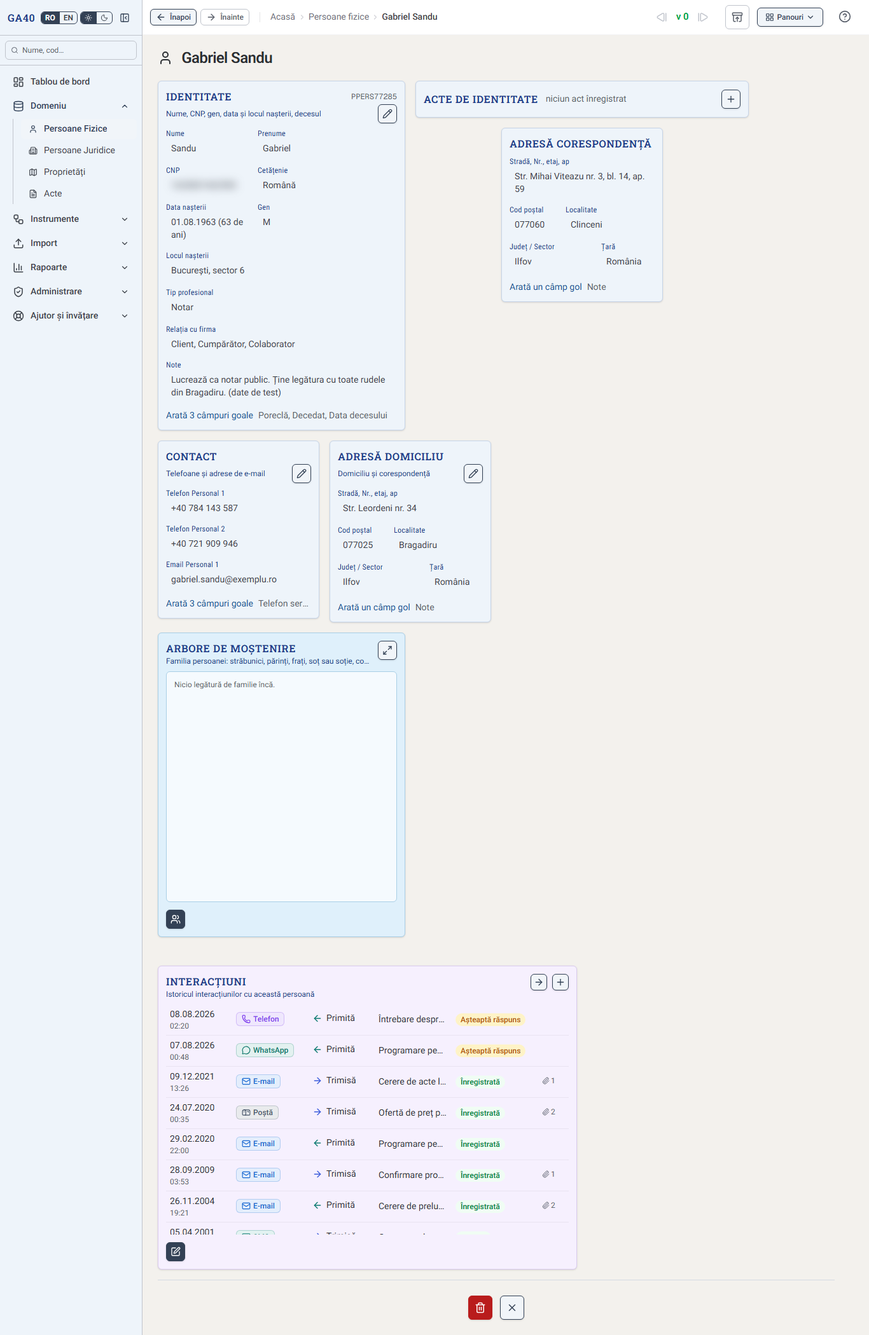
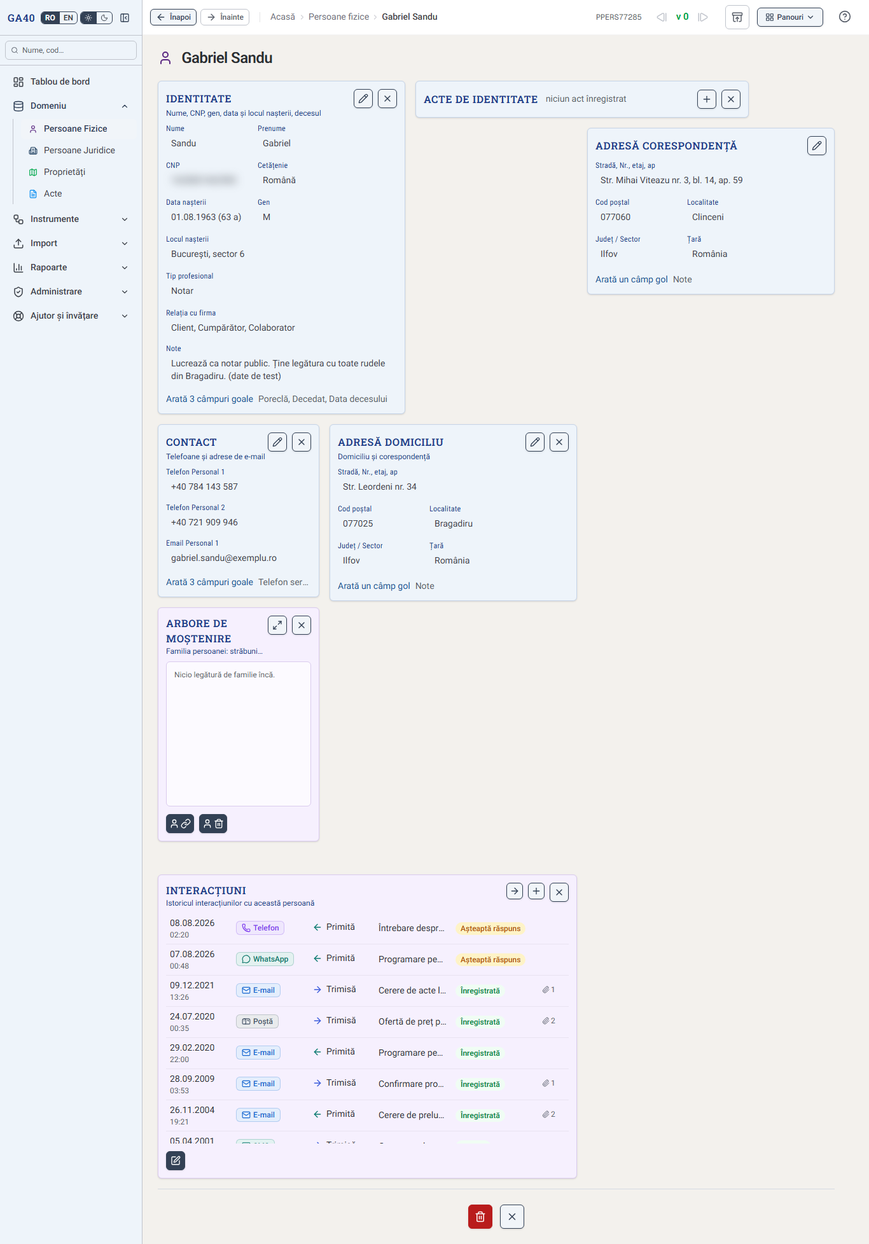
docs(manual): chapters 3 and 4 after 41.13–41.85, with their figures re-shot (41.93)
Both languages:
- chapter 3: the system ID in the bar (41.22); the two address tiles and their
  pairs, each address edited on its own, „Țară" from „Țara adresei" (41.34,
  41.35, 41.51); the age after the date of birth at rest, „(41 a)" (41.23,
  41.66); „Creează persoane din CI" disabled while the act has a holder (41.33);
  „Pe act: …" under „Cetățenie" (41.52); the tree tile as wide as its family,
  opened centred on the person, its two buttons drawn as „Legături"'s (41.71,
  41.79, 41.80);
- chapter 4: the system ID in the bar (41.22); „Tip" under „Poreclă" (41.24); the
  two address tiles (41.34, 41.51); a notary office as issuer is a „Notar" link
  (41.53).
Fixed in passing: „Cetățenie" stands beside „CNP", not „Locul nașterii" (since
41.04); the company preview's fields.
Quizzes corrected in place: „Adaugă sau scoate" is „Adaugă o rudă" / „Scoate o
rudă" (41.72) in persons-link-relatives, -id-card-from-the-archive,
-person-from-id-card, -read-inheritance-tree; the whole tree over the screen
(41.87); persons-add-natural-person-by-hand b5 (the system ID).
Figures re-shot from the dev seed, both languages, 0 maps: companies-record,
persons-identity-documents, persons-interactions-moved, persons-new,
persons-tree (series, number and CNP blurred).

Claude-Session: https://claude.ai/code/session_011Fi7mpRoEhCFzhM2R3W5NG

diff --git a/src/lib/manual/content/ro-RO/03-persons.ts b/src/lib/manual/content/ro-RO/03-persons.ts
@@ -31,7 +31,7 @@ Câteva semne de pe rânduri:
 
 - „Nou!” stă lângă o persoană adăugată sau schimbată de curând.
 - „†” după nume înseamnă că persoana a murit; dacă treceți cu mouse-ul peste el, scrie „Decedat” (secțiunea [[persons-identity]]).
-- ID-ul de sistem al persoanei nu apare în listă; îl vedeți pe ecranul ei, în colțul fișei „Identitate”.
+- ID-ul de sistem al persoanei nu apare în listă; îl vedeți pe ecranul ei, în bara de sus, la stânga versiunii (secțiunea [[start-breadcrumb]]).
 
 Fiecare rând are patru butoane:
 
@@ -72,9 +72,13 @@ Pe lista persoanelor fizice, apăsați „Adaugă persoană” — butonul din d
 | „Identitate” | Pe rânduri: „Nume” și „Prenume”; „Poreclă”, singură; „CNP” și „Cetățenie”; „Data nașterii”, „Vârstă” și „Gen”; „Decedat” și „Data decesului”; „Locul nașterii”, cât fișa de lată; „Tip profesional”; „Note”. |
 | „Acte de identitate” | Pe o persoană salvată: cărțile ei de identitate și pașapoartele, fiecare un act al ei (secțiunea [[persons-identity-documents]]). Pe „Persoană fizică nouă” nu apare: nu există încă persoana care să le dețină. |
 | „Contact” | Telefoanele și adresele de e-mail. |
-| „Adrese” | „Adresă domiciliu” și „Adresă corespondență”. |
+| „Adrese” | Două fișe, „Adresă domiciliu” și „Adresă corespondență”. Fiecare are „Stradă, Nr., etaj, ap”, apoi „Cod poștal” lângă „Localitate” și „Județ / Sector” lângă „Țară”, apoi „Note”. „Țară” se alege dintr-o listă, „Țara adresei” din „Date de referință” (secțiunea [[admin-reference-data]]). |
 
-„Gen” se scrie cu o literă: „M” sau „F” — în formular, pe ecranul persoanei, în coloana „Gen” a listei și în fereastra cărții de identitate. Ținut sub mouse, arată cuvântul întreg, „Masculin” sau „Feminin”. „Relația cu firma” ține tot rândul ei din „Identitate”, cu bifele una după alta. „Cetățenie” stă lângă „Locul nașterii”.
+„Gen” se scrie cu o literă: „M” sau „F” — în formular, pe ecranul persoanei, în coloana „Gen” a listei și în fereastra cărții de identitate. Ținut sub mouse, arată cuvântul întreg, „Masculin” sau „Feminin”. „Relația cu firma” ține tot rândul ei din „Identitate”, cu bifele una după alta. „Cetățenie” stă lângă „CNP”.
+
+Pe o persoană salvată, cât timp „Identitate” se citește, „Vârstă” nu are un câmp al ei: vârsta stă după data nașterii, între paranteze — de exemplu „(41 a)”. Câmpul „Vârstă” apare după „Editează”.
+
+Pe o persoană salvată, fiecare adresă se modifică singură: „Editează” pe „Adresă domiciliu” sau pe „Adresă corespondență”, apoi „Salvează” sau „Renunță” al fișei aceleia. În „Panouri”, amândouă au o singură bifă, „Adrese”. Când corespondența vine la domiciliu, „Adresă corespondență” stă pe un singur rând, „aceeași cu domiciliul”, iar „Adaugă” de pe rândul acela o deschide ca să-i scrieți adresa. Bifa „Adresa de corespondență aceeași cu domiciliul” stă jos în „Adresă corespondență” cât timp o modificați; pe „Persoană fizică nouă”, sub „Adresă domiciliu”.
 
 Bifele din „Panouri” arată sau ascund fișe, ca pe orice obiect (secțiunea [[start-tiles]]). O fișă ascunsă nu își pierde datele: ce ați scris în ea se salvează la fel.
 
@@ -120,10 +124,14 @@ La sfârșit vă întoarceți la lista persoanelor. Pe ecranul titularului, în 
 Când cartea de identitate este deja un act în arhivă, cu scanarea ei ca pagină, persoanele se creează de pe ecranul actului.
 
 1. Deschideți actul de identitate: o „Carte de Identitate (tip nou)”, o „Carte de Identitate (tip vechi)”, un „Pașaport” sau un „Pașaport CRDS”.
-2. Apăsați „Creează persoane din CI”, lângă „Modifică”. Aplicația citește cartea de pe prima pagină și deschide fereastra „Creează persoană din cartea de identitate”.
+2. Apăsați „Creează persoane din CI” — persoana cu un +, fără cuvinte —, lângă „Modifică”. Aplicația citește cartea de pe prima pagină și deschide fereastra „Creează persoană din cartea de identitate”.
 3. Verificați titularul și apăsați „Creează și leagă”. Dacă titularul există deja în arhivă, aplicația îl găsește după CNP și nu face o a doua persoană.
 4. În „Părinții titularului”, tatăl și mama citiți de pe carte sunt deja bifați, cu numele de familie al titularului, marcat ca presupus. Verificați-i, apoi apăsați „Creează și leagă” pentru fiecare.
 5. Sub buton, aplicația scrie ce a făcut: „Titularul a fost creat și legat de act.”, „Tatăl: creat(ă) și legat(ă)”, „Mama: creat(ă) și legat(ă)”.
+
+„Creează persoane din CI” nu se poate apăsa cât timp actul are deja un titular — fie creat așa, fie adăugat din fișa „Acte de identitate” a persoanei: ținut sub mouse, butonul spune „Actul are deja un titular: …”, cu numele lui.
+
+În fereastră, sub „Cetățenie”, scrie și ce a tipărit actul: „Pe act: …”, de exemplu cu cetățenia Română / ROU. Persoana primește cetățenia aleasă din listă, iar actul păstrează textul tipărit.
 
 Titularul este legat de act ca „Titular act de identitate”, iar părinții sunt legați de titular ca „Tată” și „Mamă”. Ce a tipărit actul se scrie pe act, în fișa lui „Actul oficial”; pe persoană ajung numele, CNP-ul, genul, nașterea și cetățenia, iar o persoană care exista deja primește doar câmpurile pe care nu le avea completate. Dacă citirea nu găsește prenumele părinților, cele două rânduri apar goale și nebifate, cu nota „Cartea nu tipărește prenumele părinților, sau citirea nu le-a găsit…”: le puteți scrie voi.
 
@@ -176,7 +184,7 @@ Un CNP greșit se îndreaptă așa: ștergeți persoana și adăugați-o din nou
 2. Scrieți „Data decesului”, dacă o știți.
 3. Apăsați „Salvează”, sub câmpurile fișei.
 
-După deces, „Vârstă” nu mai crește: arată vârsta la moarte, urmată de „†” — de exemplu „76 †”. O persoană bifată „Decedat”, dar fără dată, are „Vârstă” „—”. În liste, „†” apare după numele ei.
+După deces, „Vârstă” nu mai crește: arată vârsta la moarte, urmată de „†” — de exemplu „76 †”; la citire, după data nașterii, stă tot vârsta la moarte, cu „†” după ea. O persoană bifată „Decedat”, dar fără dată, are „Vârstă” „—”. În liste, „†” apare după numele ei.
 
 Aplicația refuză o dată de deces care nu are sens și scrie sub câmp de ce:
 
@@ -204,13 +212,15 @@ O legătură se scoate din „Legături”: alegeți rândul și apăsați „De
 
 Fișa „Arbore de moștenire”, mov deschis, desenează familia persoanei: părinții și bunicii până la străbunici, copiii până la strănepoți, frații și soțul sau soția (Figura [[fig-persons-tree]]). Dacă nu o vedeți, bifați „Arbore de moștenire” în „Panouri”.
 
+Fișa este cât familia: cu persoana singură sau cu o singură rudă are 2 unități, cu mai multe rude 3 (secțiunea [[start-tiles]]). Desenul se deschide centrat pe persoană, chiar dacă o parte din arbore rămâne atunci în afara fișei. O lățime trasă de mână se păstrează.
+
 „Deschide arborele întreg” deschide arborele întreg chiar peste ecranul persoanei. Fișa crește până umple fereastra, iar persoana pleacă de unde stă în fișă spre mijloc, la aceeași mărime; apoi arborele se apropie până se citesc datele și se deschide fișa persoanei. „Restrânge”, Esc, un clic în afara arborelui sau butonul înapoi al browserului îl strâng în fișă pe același drum. Dacă între timp l-ați mutat, l-ați mărit sau ați căutat altă persoană, întâi se întoarce, pe un arc, acolo unde se terminase deschiderea. Cât durează fiecare parte se alege în „Setări”, la „Praguri de timp” (secțiunea [[admin-settings-thresholds]]) — aceleași valori ca la „Hartă extinsă”.
 
 ![3.3 Fișa „Arbore de moștenire” a unei persoane](persons-tree.png){#fig-persons-tree}
 
 În arbore intră doar legăturile cu un rol de rudenie — rolurile marcate „Rudenie” în „Roluri Persoane”. O persoană fără astfel de legături arată „Nicio legătură de familie încă.”.
 
-Sub desen stau două butoane: „Adaugă o rudă” (o persoană cu o za de lanț) deschide jumătatea în care legați o rudă nouă, iar „Scoate o rudă” (o persoană cu un coș) pe cea cu legăturile de familie ale persoanei; fiecare se restrânge din butonul ei. Când ajungeți la persoană din „Rapoarte” → „Arbori de moștenire”, cu un clic pe numele ei (secțiunea [[reports-inheritance]]), „Adaugă o rudă” este deja deschisă.
+Sub desen stau două butoane, desenate ca „Asociază persoană” din „Legături”: „Adaugă o rudă” — persoana, apoi zaua de lanț — deschide jumătatea „O rudă nouă a lui …”, în care legați o rudă nouă, iar „Scoate o rudă” — persoana, apoi un coș — pe cea cu legăturile de familie ale persoanei. Pot fi deschise amândouă; fiecare se restrânge din butonul ei sau din săgeata ei. Când ajungeți la persoană din „Rapoarte” → „Arbori de moștenire”, cu un clic pe numele ei (secțiunea [[reports-inheritance]]), „Adaugă o rudă” este deja deschisă.
 
 - „Legăturile de familie ale persoanei” arată rudele ei, fiecare cu rolul.
 - Ca să adăugați o rudă: la „Ruda”, scrieți numele și alegeți persoana; la „Ce este pentru …”, alegeți rudenia; apăsați „Adaugă legătura”. Ruda apare în desen.

diff --git a/src/lib/manual/content/en-GB/03-persons.ts b/src/lib/manual/content/en-GB/03-persons.ts
@@ -31,7 +31,7 @@ A few marks on the rows:
 
 - „New!” stands beside a person added or changed recently.
 - „†” after the name means the person has died; if you move the mouse over it, it reads „Deceased” (section [[persons-identity]]).
-- The person's system ID does not appear in the list; you see it on their screen, in the corner of the „Identity” tile.
+- The person's system ID does not appear in the list; you see it on their screen, in the top bar, left of the version (section [[start-breadcrumb]]).
 
 Each row has four buttons:
 
@@ -72,9 +72,13 @@ On the list of natural persons, press „Add new Person” — the button on the
 | „Identity” | In rows: „Last Name” and „First Name”; „Nickname”, alone; „CNP” and „Citizenship”; „Date of Birth”, „Age” and „Gender”; „Deceased” and „Date of death”; „Place of Birth”, as wide as the tile; „Professional type”; „Notes”. |
 | „Identity documents” | On a saved person: their identity cards and passports, each a document of its own (section [[persons-identity-documents]]). It does not appear on „New Natural Person”: there is no person yet to hold them. |
 | „Contact” | The telephone numbers and e-mail addresses. |
-| „Addresses” | „Home Address” and „Correspondence Address”. |
+| „Addresses” | Two tiles, „Home Address” and „Correspondence Address”. Each has „Street, No., Floor, Apt”, then „Postal Code” beside „Locality” and „County / Sector” beside „Country”, then „Notes”. „Country” is chosen from a list, „Address country” in „Reference Data” (section [[admin-reference-data]]). |
 
-„Gender” is written as one letter: „M” or „F” — on the form, on the person's screen, in the list's „Gender” column and in the ID card's window. Under the mouse it shows the whole word, „Male” or „Female”. „Relationship to the business” takes the whole of its row in „Identity”, its ticks one after another. „Citizenship” sits beside „Place of Birth”.
+„Gender” is written as one letter: „M” or „F” — on the form, on the person's screen, in the list's „Gender” column and in the ID card's window. Under the mouse it shows the whole word, „Male” or „Female”. „Relationship to the business” takes the whole of its row in „Identity”, its ticks one after another. „Citizenship” sits beside „CNP”.
+
+On a saved person, while „Identity” is being read, „Age” has no field of its own: the age stands after the date of birth, in brackets — for instance „(41 y)”. The „Age” field appears after „Edit”.
+
+On a saved person, each address is edited on its own: „Edit” on „Home Address” or on „Correspondence Address”, then that tile's „Save” or „Cancel”. In „Panels”, the two have a single tick, „Addresses”. When the post goes to the home address, „Correspondence Address” is a single line, „same as home address”, and „Add” on that line opens it so you can type its address. The tick „Correspondence address same as home address” stands at the foot of „Correspondence Address” while you edit it; on „New Natural Person”, under „Home Address”.
 
 The ticks in „Panels” show or hide tiles, as on any object (section [[start-tiles]]). A hidden tile does not lose its data: what you typed in it is saved all the same.
 
@@ -120,10 +124,14 @@ At the end you return to the list of persons. On the holder's screen, in „Link
 When the identity card is already a document in the archive, with its scan as a page, the persons are created from the document's screen.
 
 1. Open the identity document: a „Carte de Identitate (tip nou)”, a „Carte de Identitate (tip vechi)”, a „Pașaport” or a „Pașaport CRDS”.
-2. Press „Create people from the ID card”, beside „Modify”. The application reads the card from the first page and opens the window „Create person from ID card”.
+2. Press „Create people from the ID card” — a person with a +, no words —, beside „Modify”. The application reads the card from the first page and opens the window „Create person from ID card”.
 3. Check the holder and press „Create and link”. If the holder is already in the archive, the application finds them by CNP and does not make a second person.
 4. In „The holder's parents”, the father and mother read from the card are already ticked, with the holder's surname, marked as assumed. Check them, then press „Create and link” for each.
 5. Under the button, the application writes what it did: „The holder was created and linked to the document.”, „Father: created and linked”, „Mother: created and linked”.
+
+„Create people from the ID card” cannot be pressed while the document already has a holder — whether created this way or added from the person's „Identity documents” tile: under the mouse the button says „This document already has a holder: …”, with their name.
+
+In the window, under „Citizenship”, it also shows what the document printed: „On the document: …”, followed by the citizenship exactly as the card prints it. The person receives the citizenship chosen from the list, and the document keeps the printed text.
 
 The holder is linked to the document as „Titular act de identitate” (identity-document holder), and the parents are linked to the holder as „Tată” and „Mamă”. What the document printed is written on the document, in its „Official document” tile; the names, the CNP, the gender, the birth and the citizenship go onto the person, and a person who already existed receives only the fields they had empty. If the reading does not find the parents' first names, the two rows appear empty and unticked, with the note „The card does not print the parents' first names, or the read did not find them…”: you can type them yourself.
 
@@ -176,7 +184,7 @@ In the „Identity” tile, under „Date of Birth”, is the „Deceased” tic
 2. Type „Date of death”, if you know it.
 3. Press „Save”.
 
-After the death, „Age” no longer grows: it shows the age at death, followed by „†” — for instance „76 †”. A person ticked „Deceased” but with no date has „Age” „—”. In the lists, „†” appears after their name.
+After the death, „Age” no longer grows: it shows the age at death, followed by „†” — for instance „76 †”; when the tile is read, the date of birth too is followed by the age at death, with „†” after it. A person ticked „Deceased” but with no date has „Age” „—”. In the lists, „†” appears after their name.
 
 The application refuses a date of death that makes no sense and writes under the field why:
 
@@ -204,13 +212,15 @@ A link is removed from „Links”: choose the row and press „Dissociate”.
 
 The „Inheritance tree” tile, light purple, draws the person's family: parents and grandparents up to great-grandparents, children down to great-grandchildren, siblings and the husband or wife (Figure [[fig-persons-tree]]). If you do not see it, tick „Inheritance tree” in „Panels”.
 
+The tile is as wide as the family: with the person alone or with a single relative it is 2 units wide, with more relatives 3 (section [[start-tiles]]). The drawing opens centred on the person, even if part of the tree is then outside the tile. A width dragged by hand is kept.
+
 „Open the whole tree” opens the whole tree right over the person's screen. The tile grows until it fills the window, and the person travels from where they stand on the tile to the middle, at the same size; then the tree comes closer until the details can be read, and the person's card opens. „Collapse”, Esc, a click outside the tree or the browser's back button take it back into the tile the same way. If you moved it, zoomed it or searched for another person meanwhile, it first returns, on an arc, to where the opening ended. How long each part lasts is set in „Settings”, under „Time thresholds” (section [[admin-settings-thresholds]]) — the same values as „Map — expanded”.
 
 ![3.3 A person's „Inheritance tree” tile](persons-tree.png){#fig-persons-tree}
 
 Only links with a kinship role go into the tree — the roles marked „Kinship” in „Person Roles”. A person with no such links shows „No family ties yet.”
 
-Under the drawing stand two buttons: „Add a relative” (a person with a chain link) opens the half where you tie in a new relative, and „Remove a relative” (a person with a bin) the one with the person's family ties; each collapses from its own button. When you reach the person from „Reporting” → „Inheritance trees”, with a click on their name (section [[reports-inheritance]]), „Add a relative” is already open.
+Under the drawing stand two buttons, drawn like „Associate person” in „Links”: „Add a relative” — the person, then the chain link — opens the half „A new relative of …”, where you tie in a new relative, and „Remove a relative” — the person, then a bin — the one with the person's family ties. Both can be open at once; each collapses from its own button or from its arrow. When you reach the person from „Reporting” → „Inheritance trees”, with a click on their name (section [[reports-inheritance]]), „Add a relative” is already open.
 
 - „The person's family ties” shows their relatives, each with the role.
 - To add a relative: under „Relative”, type the name and choose the person; under „What they are to …”, choose the kinship; press „Add the tie”. The relative appears in the drawing.

diff --git a/src/lib/manual/content/ro-RO/04-companies.ts b/src/lib/manual/content/ro-RO/04-companies.ts
@@ -26,7 +26,7 @@ Caseta de căutare din capul listei („caută după ID, Denumire, Poreclă, Nr.
 
 Butonul arată câte câmpuri ați ales, de exemplu „Câmpuri afișate 1/4”. Coloana CUI nu apare până nu o bifați, dar căutarea după CUI merge oricum. La „Contact” se vede prima persoană de contact a firmei; dacă primul loc e gol, se vede a doua (secțiunea [[companies-people-contact]]).
 
-Pe fiecare rând, denumirea firmei este un link care o deschide, iar lângă ea stau, estompate până treceți cu mouse-ul peste rând, „Previzualizare”, „Incursiune” și „Legături”. Previzualizarea unei firme arată denumirea ei, apoi porecla. „Incursiune” arată, alături de listă, fișa „Interacțiuni” a firmei, iar „Legături” arată, tot alături, cu cine este legată firma, fără să o deschideți.
+Pe fiecare rând, denumirea firmei este un link care o deschide, iar lângă ea stau, estompate până treceți cu mouse-ul peste rând, „Previzualizare”, „Incursiune” și „Legături”. Previzualizarea unei firme arată denumirea ei, apoi porecla și CUI-ul, apoi telefonul și e-mailul firmei. „Incursiune” arată, alături de listă, fișa „Interacțiuni” a firmei, iar „Legături” arată, tot alături, cu cine este legată firma, fără să o deschideți.
 
 O firmă adăugată de curând apare în capul listei, marcată „Nou!”.
 
@@ -73,7 +73,9 @@ Prima fișă ține datele firmei:
 - „Nr. înregistrare (CUI)” — codul unic de înregistrare.
 - „Nr. registru comerțului” — numărul de la Registrul Comerțului.
 
-ID-ul de sistem al firmei, care începe cu JPERS, stă în colțul din dreapta-sus al acestei fișe. Nu este un câmp și nu se scrie de mână.
+„Denumire” și „Poreclă” țin fiecare toată lățimea fișei; „Tip” stă singur pe rândul lui, sub „Poreclă”, iar CUI-ul și numărul de la Registrul Comerțului stau alături, dedesubt.
+
+ID-ul de sistem al firmei, care începe cu JPERS, nu stă în fișă, ci în bara de sus, la stânga versiunii (secțiunea [[start-breadcrumb]]). Nu este un câmp și nu se scrie de mână.
 
 Aplicația nu verifică forma CUI-ului: primește orice scrieți. Verificați-l deci pe act înainte să salvați. Odată salvat, sub CUI apare regula: „CUI-ul nu poate fi modificat odată setat — ștergeți și creați din nou pentru a-l schimba”. Un CUI greșit se îndreaptă, așadar, ștergând firma și creând-o din nou.
 
@@ -85,7 +87,9 @@ Un e-mail care nu are forma unei adrese nu se salvează: sub câmp apare „Adre
 
 ### 4.2.3 Adresele {#companies-add-addresses}
 
-Fișa „Adrese” ține „Adresă sediu social” și „Adresă corespondență”. Când firma primește corespondența la sediu, bifați „Aceeași cu adresa sediului social” și nu mai scrieți adresa a doua oară.
+Adresele sunt două fișe, „Adresă sediu social” și „Adresă corespondență”, cu câmpurile oricărei adrese (secțiunea [[persons-add-tiles]]); „Țară” se alege din lista „Țara adresei”. În „Panouri” au o singură bifă, „Adrese”. Pe o firmă salvată, fiecare se modifică singură, cu „Editează”, „Salvează” și „Renunță” ale ei.
+
+Când firma primește corespondența la sediu, bifați „Aceeași cu adresa sediului social” și nu mai scrieți adresa a doua oară. Bifa stă jos în „Adresă corespondență” cât timp o modificați; pe „Persoană juridică nouă”, sub „Adresă sediu social”. Cu bifa pusă, „Adresă corespondență” stă pe un singur rând, „aceeași cu sediul social”, iar „Adaugă” de pe el o deschide.
 
 ### 4.2.4 Modificarea și istoricul {#companies-add-edit}
 
@@ -138,6 +142,8 @@ Instituțiile care emit acte — un birou notarial, o instanță, o primărie, o
 La „Tip” stau după formele de firmă, cu „Altele” la urmă. Fiecare are cod fiscal în registrul ANAF, așa că „Completează din ANAF” le completează ca pe orice firmă (secțiunea [[companies-add-anaf]]).
 
 Emitentul unui act — câmpul din formularul actului a cărui etichetă se schimbă după tip — se alege dintre ele: lista lui ține persoanele juridice de un tip de autoritate publică, iar căutarea lui găsește orice persoană juridică (secțiunea [[documents-identification]]). Ce tipuri sunt autorități publice se bifează în „Date de referință” (secțiunea [[admin-reference-data-public-bodies]]).
+
+Pe un act notarial — un certificat de moștenitor, un contract de vânzare, un act adițional, un act de donație sau un testament —, biroul notarial ales ca emitent apare și în „Legături”, cu rolul „Notar”, pe act și pe ecranul biroului. Legătura urmează emitentul: alt birou o mută, un emitent golit o scoate. „Dezasociază” nu o scoate, ci răspunde „Biroul notarial se schimbă din „Identificarea actului”.”.
 
 Fosta listă de instituții a arhivei a devenit persoane juridice de aceste tipuri, fiecare cu cod JPERS. Cele care nu numeau o instituție anume — biroul notarial, instanța sau primăria generice — au nota „generic — de înlocuit cu instituția exactă”. Deschideți-o, puneți numele și CUI-ul instituției exacte în locul celor generice și salvați: toate actele emise de ea numesc atunci instituția exactă.
 

diff --git a/src/lib/manual/content/en-GB/04-companies.ts b/src/lib/manual/content/en-GB/04-companies.ts
@@ -26,7 +26,7 @@ The search box at the top of the list („search by ID, Name, Nickname, Registra
 
 The button shows how many fields you chose, for instance „Choose fields 1/4”. The CUI column does not appear until you tick it, but searching by CUI works regardless. Under „Contact” you see the firm's first contact person; if the first slot is empty, you see the second (section [[companies-people-contact]]).
 
-On each row the firm's name is a link that opens it, and beside it stand, faded until the mouse passes over the row, „Preview”, „Peek inside” and „Links”. A firm's preview shows its name, then its nickname. „Peek inside” shows the firm's „Interactions” tile beside the list, and „Links” shows, also beside it, whom the firm is linked to, without opening it.
+On each row the firm's name is a link that opens it, and beside it stand, faded until the mouse passes over the row, „Preview”, „Peek inside” and „Links”. A firm's preview shows its name, then its nickname and its CUI, then the firm's phone and e-mail. „Peek inside” shows the firm's „Interactions” tile beside the list, and „Links” shows, also beside it, whom the firm is linked to, without opening it.
 
 A firm added recently stands at the top of the list, marked „New!”.
 
@@ -73,7 +73,9 @@ The first tile holds the firm's details:
 - „Registration No. (CUI)” — the unique registration code.
 - „Trade Register No.” — the Trade Register number.
 
-The firm's system ID, which begins with JPERS, stands in the top right-hand corner of this tile. It is not a field and is not typed by hand.
+„Name” and „Nickname” each take the tile's whole width; „Type” stands alone on its row, under „Nickname”, and the CUI and the Trade Register number stand side by side below it.
+
+The firm's system ID, which begins with JPERS, is not on the tile but in the top bar, left of the version (section [[start-breadcrumb]]). It is not a field and is not typed by hand.
 
 The application does not check the shape of the CUI: it accepts whatever you type. So check it against the document before you save. Once saved, the rule appears under the CUI: „CUI cannot be changed once set — delete and recreate to change”. A wrong CUI is therefore put right by deleting the firm and creating it again.
 
@@ -85,7 +87,9 @@ An e-mail that does not have the shape of an address is not saved: under the fie
 
 ### 4.2.3 The addresses {#companies-add-addresses}
 
-The „Addresses” tile holds „Registered Address” and „Correspondence Address”. When the firm receives its post at its office, tick „Same as registered address” and do not type the address a second time.
+The addresses are two tiles, „Registered Address” and „Correspondence Address”, with the fields of any address (section [[persons-add-tiles]]); „Country” is chosen from the „Address country” list. In „Panels” they have a single tick, „Addresses”. On a saved firm each is edited on its own, with its own „Edit”, „Save” and „Cancel”.
+
+When the firm receives its post at its office, tick „Same as registered address” and do not type the address a second time. The tick stands at the foot of „Correspondence Address” while you edit it; on „New Juridical Person”, under „Registered Address”. With the tick set, „Correspondence Address” is a single line, „same as registered office”, and „Add” on it opens it.
 
 ### 4.2.4 Editing and the history {#companies-add-edit}
 
@@ -138,6 +142,8 @@ The bodies that issue documents — a notary's office, a court, a town hall, the
 In „Type” they stand after the company forms, with „Altele” last. Each has a tax code in ANAF's register, so „Fill in from ANAF” fills them in like any firm (section [[companies-add-anaf]]).
 
 A document's issuer — the field of its form whose label changes with its type — is chosen among them: its list holds the juridical persons of a public-body type, and its search finds any juridical person (section [[documents-identification]]). Which types count as public bodies is a tick in Reference Data (section [[admin-reference-data-public-bodies]]).
+
+On a notarial document — a certificate of inheritance, a sale contract, an addendum, a deed of gift or a will —, the notary's office chosen as issuer also appears in „Links”, with the role „Notar” (notary), on the document and on the office's screen. The link follows the issuer: another office moves it, an emptied issuer removes it. „Dissociate” does not remove it, but answers „The notary office is changed on „Document identification”.”.
 
 The archive's former list of institutions became juridical persons of these types, each with a JPERS code. Those that named no particular body — the generic notary's office, court or town hall — carry the note „generic — de înlocuit cu instituția exactă” (generic — to be replaced with the exact institution). Open one, put the exact body's name and CUI in place of the generic ones, and save: every document it issued then names the exact body.
 
